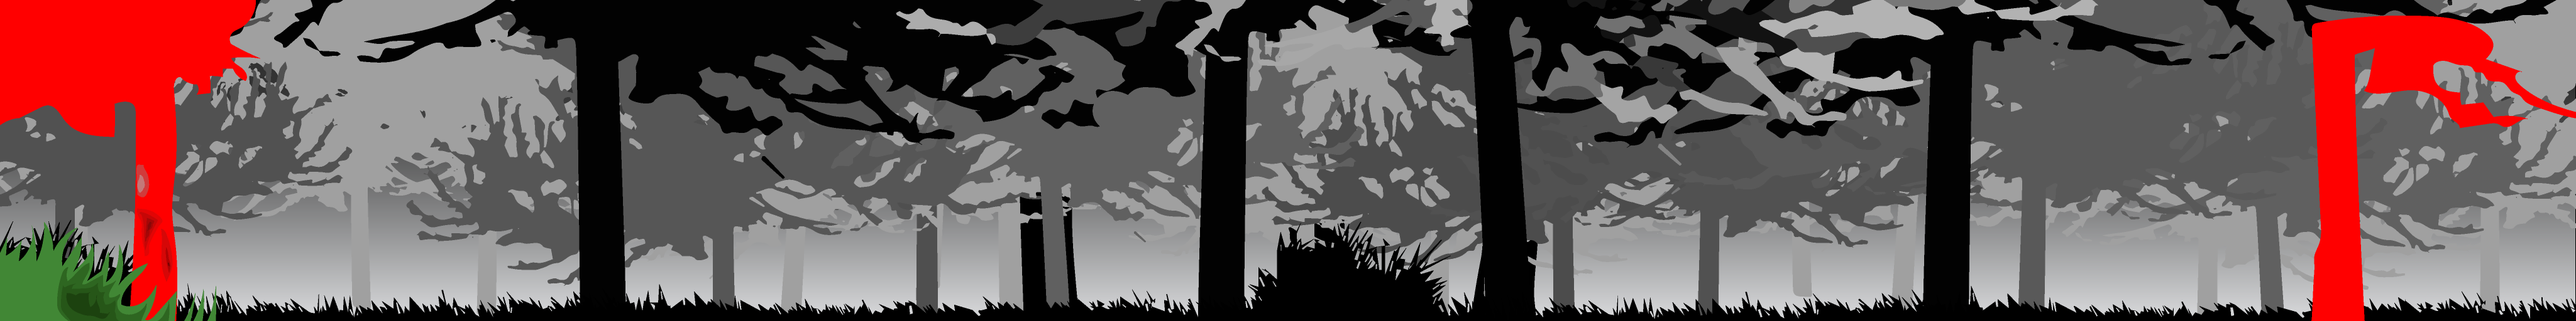
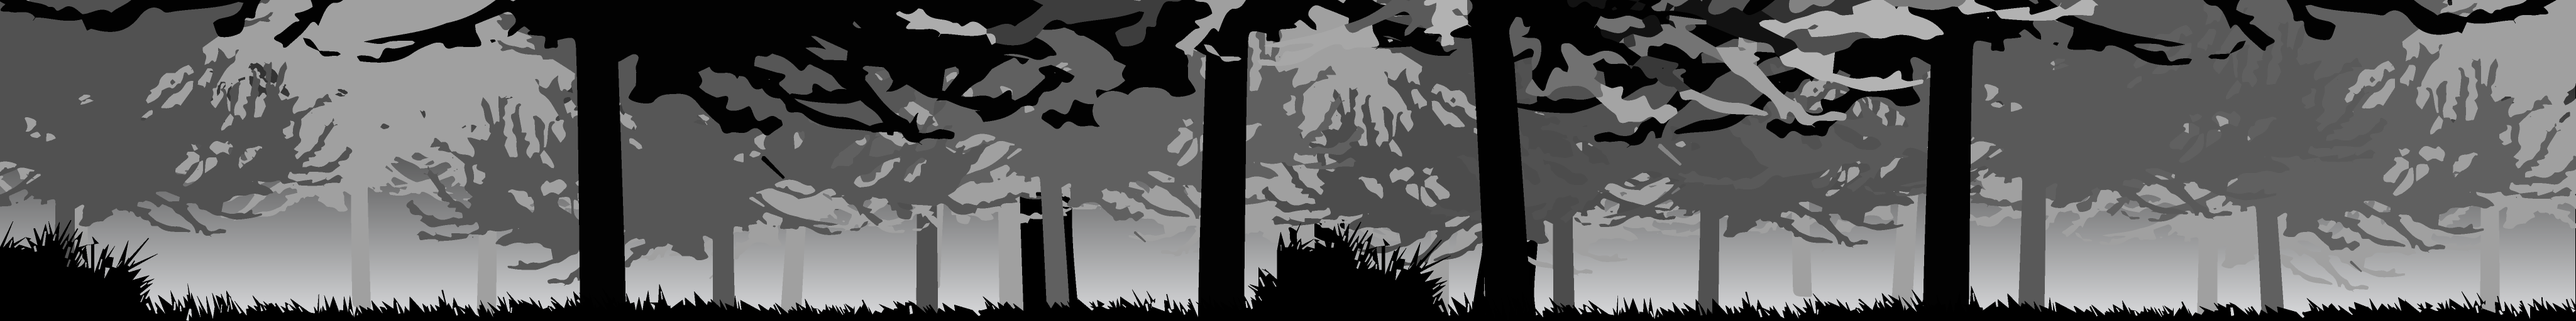
more scenery bs

Changed region(s): [[0.0, 0.0, 0.1249, 1.0], [0.8746, 0.0312, 1.0, 1.0]]

diff --git a/public/src/js/data/keke2_config3.js b/public/src/js/data/keke2_config3.js
@@ -20,10 +20,12 @@ var config = {
 		// scenery
 		sky: 'images/night_sky.jpg',
 
+		movingBackground0a: 'images/new_backgroundA.png',
+		movingBackground0b: 'images/new_backgroundB.png',
 		// movingBackground0a: 'images/moving_background2a.png',
 		// movingBackground0b: 'images/moving_background2b.png',
-		movingBackground0a: 'images/moving_background0a.png',
-		movingBackground0b: 'images/moving_background0b.png',
+		// movingBackground0a: 'images/moving_background0a.png',
+		// movingBackground0b: 'images/moving_background0b.png',
 		movingBackground0: 'images/moving_background0.png',
 		movingBackground1: 'images/moving_background1.png',
 		movingBackground2: 'images/moving_background2.png',
@@ -447,43 +449,43 @@ var config = {
 						height: stage.height * 1.5,
 					}
 				}
-			},
-			{
-				name: 'tree05',
-				cl: 'Sprite',
-				attrs: {
-					img: 'tree02',
-					start: {
-						x: 3700,
-						y: (-stage.height)
-					},
-					phaser: {
-						width: stage.height,
-						height: stage.height * 2,
-					}
-				}
-			},
-			{
-				name: 'grass0',
-				cl: 'Sprite',
-				attrs: {
-					img: 'grass1',
-					start: {
-						x: 0,
-						y: stage.height - 220
-					}
-				}
-			},
-			{
-				name: 'grass1',
-				cl: 'Sprite',
-				attrs: {
-					img: 'grass2',
-					start: {
-						x: 2048,
-						y: stage.height - 220
-					}
-				}
+			// },
+			// {
+			// 	name: 'tree05',
+			// 	cl: 'Sprite',
+			// 	attrs: {
+			// 		img: 'tree02',
+			// 		start: {
+			// 			x: 3700,
+			// 			y: (-stage.height)
+			// 		},
+			// 		phaser: {
+			// 			width: stage.height,
+			// 			height: stage.height * 2,
+			// 		}
+			// 	}
+			// },
+			// {
+			// 	name: 'grass0',
+			// 	cl: 'Sprite',
+			// 	attrs: {
+			// 		img: 'grass1',
+			// 		start: {
+			// 			x: 0,
+			// 			y: stage.height - 220
+			// 		}
+			// 	}
+			// },
+			// {
+			// 	name: 'grass1',
+			// 	cl: 'Sprite',
+			// 	attrs: {
+			// 		img: 'grass2',
+			// 		start: {
+			// 			x: 2048,
+			// 			y: stage.height - 220
+			// 		}
+			// 	}
 			}
 			]
 		},
